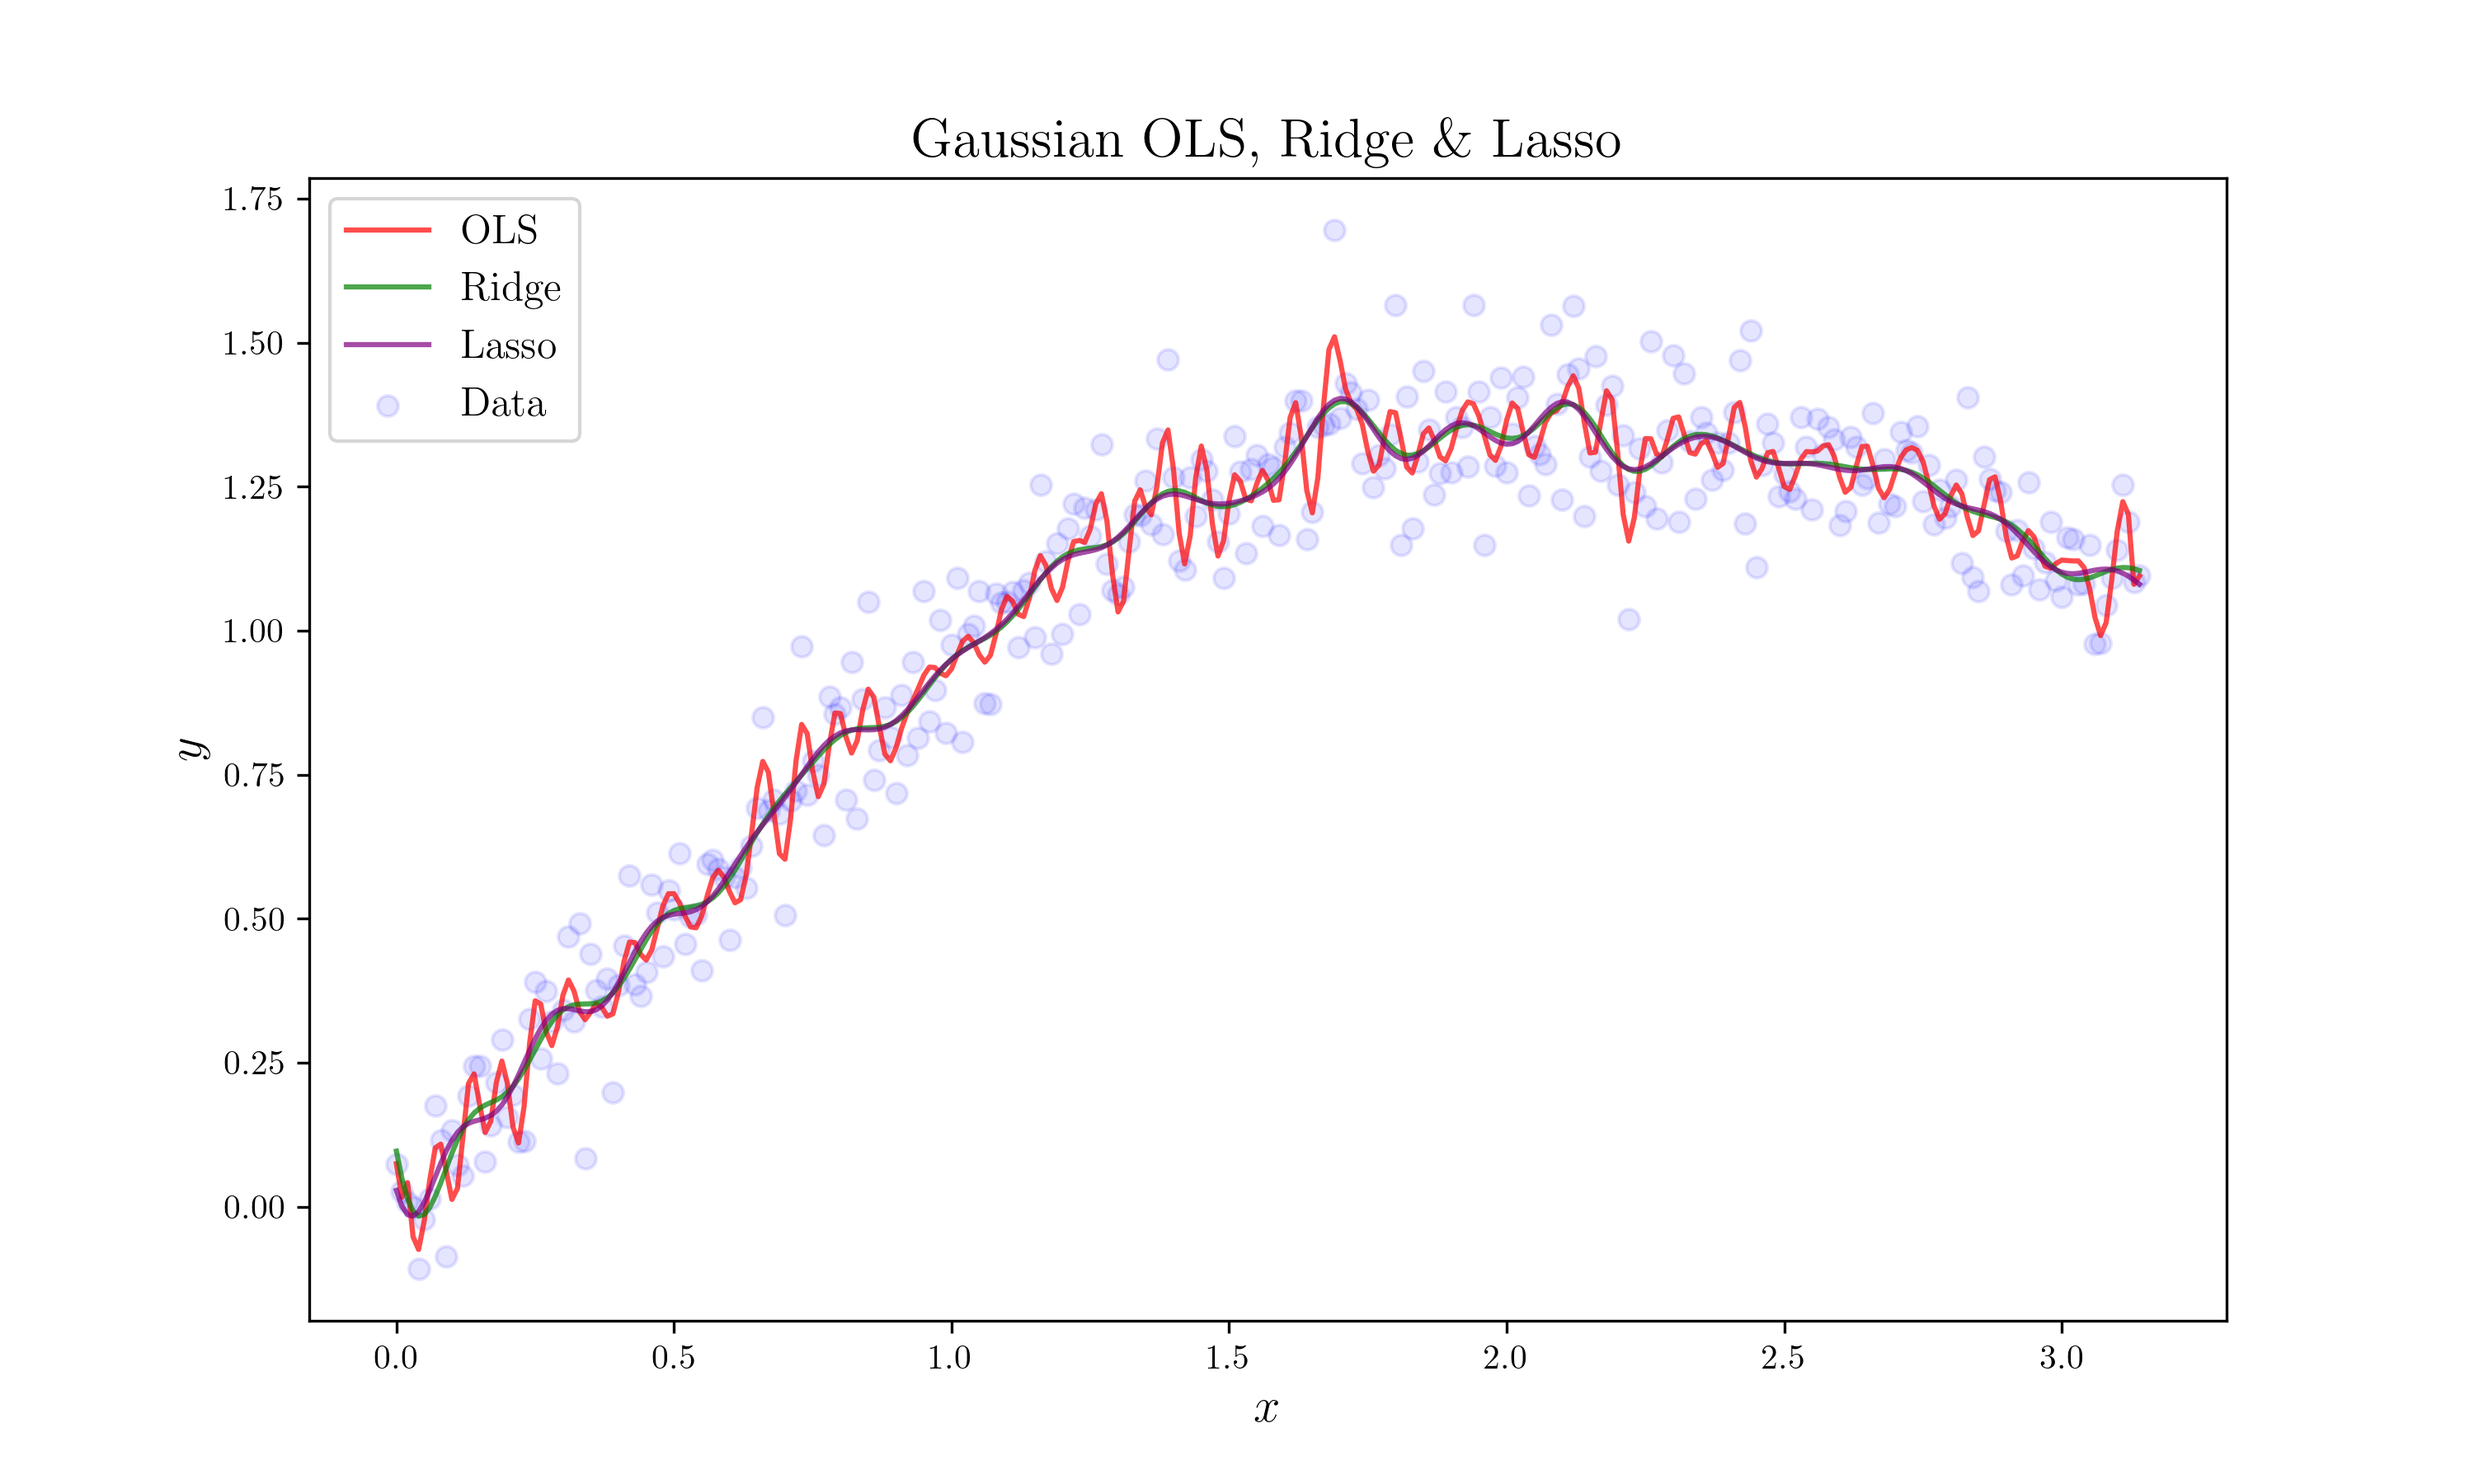
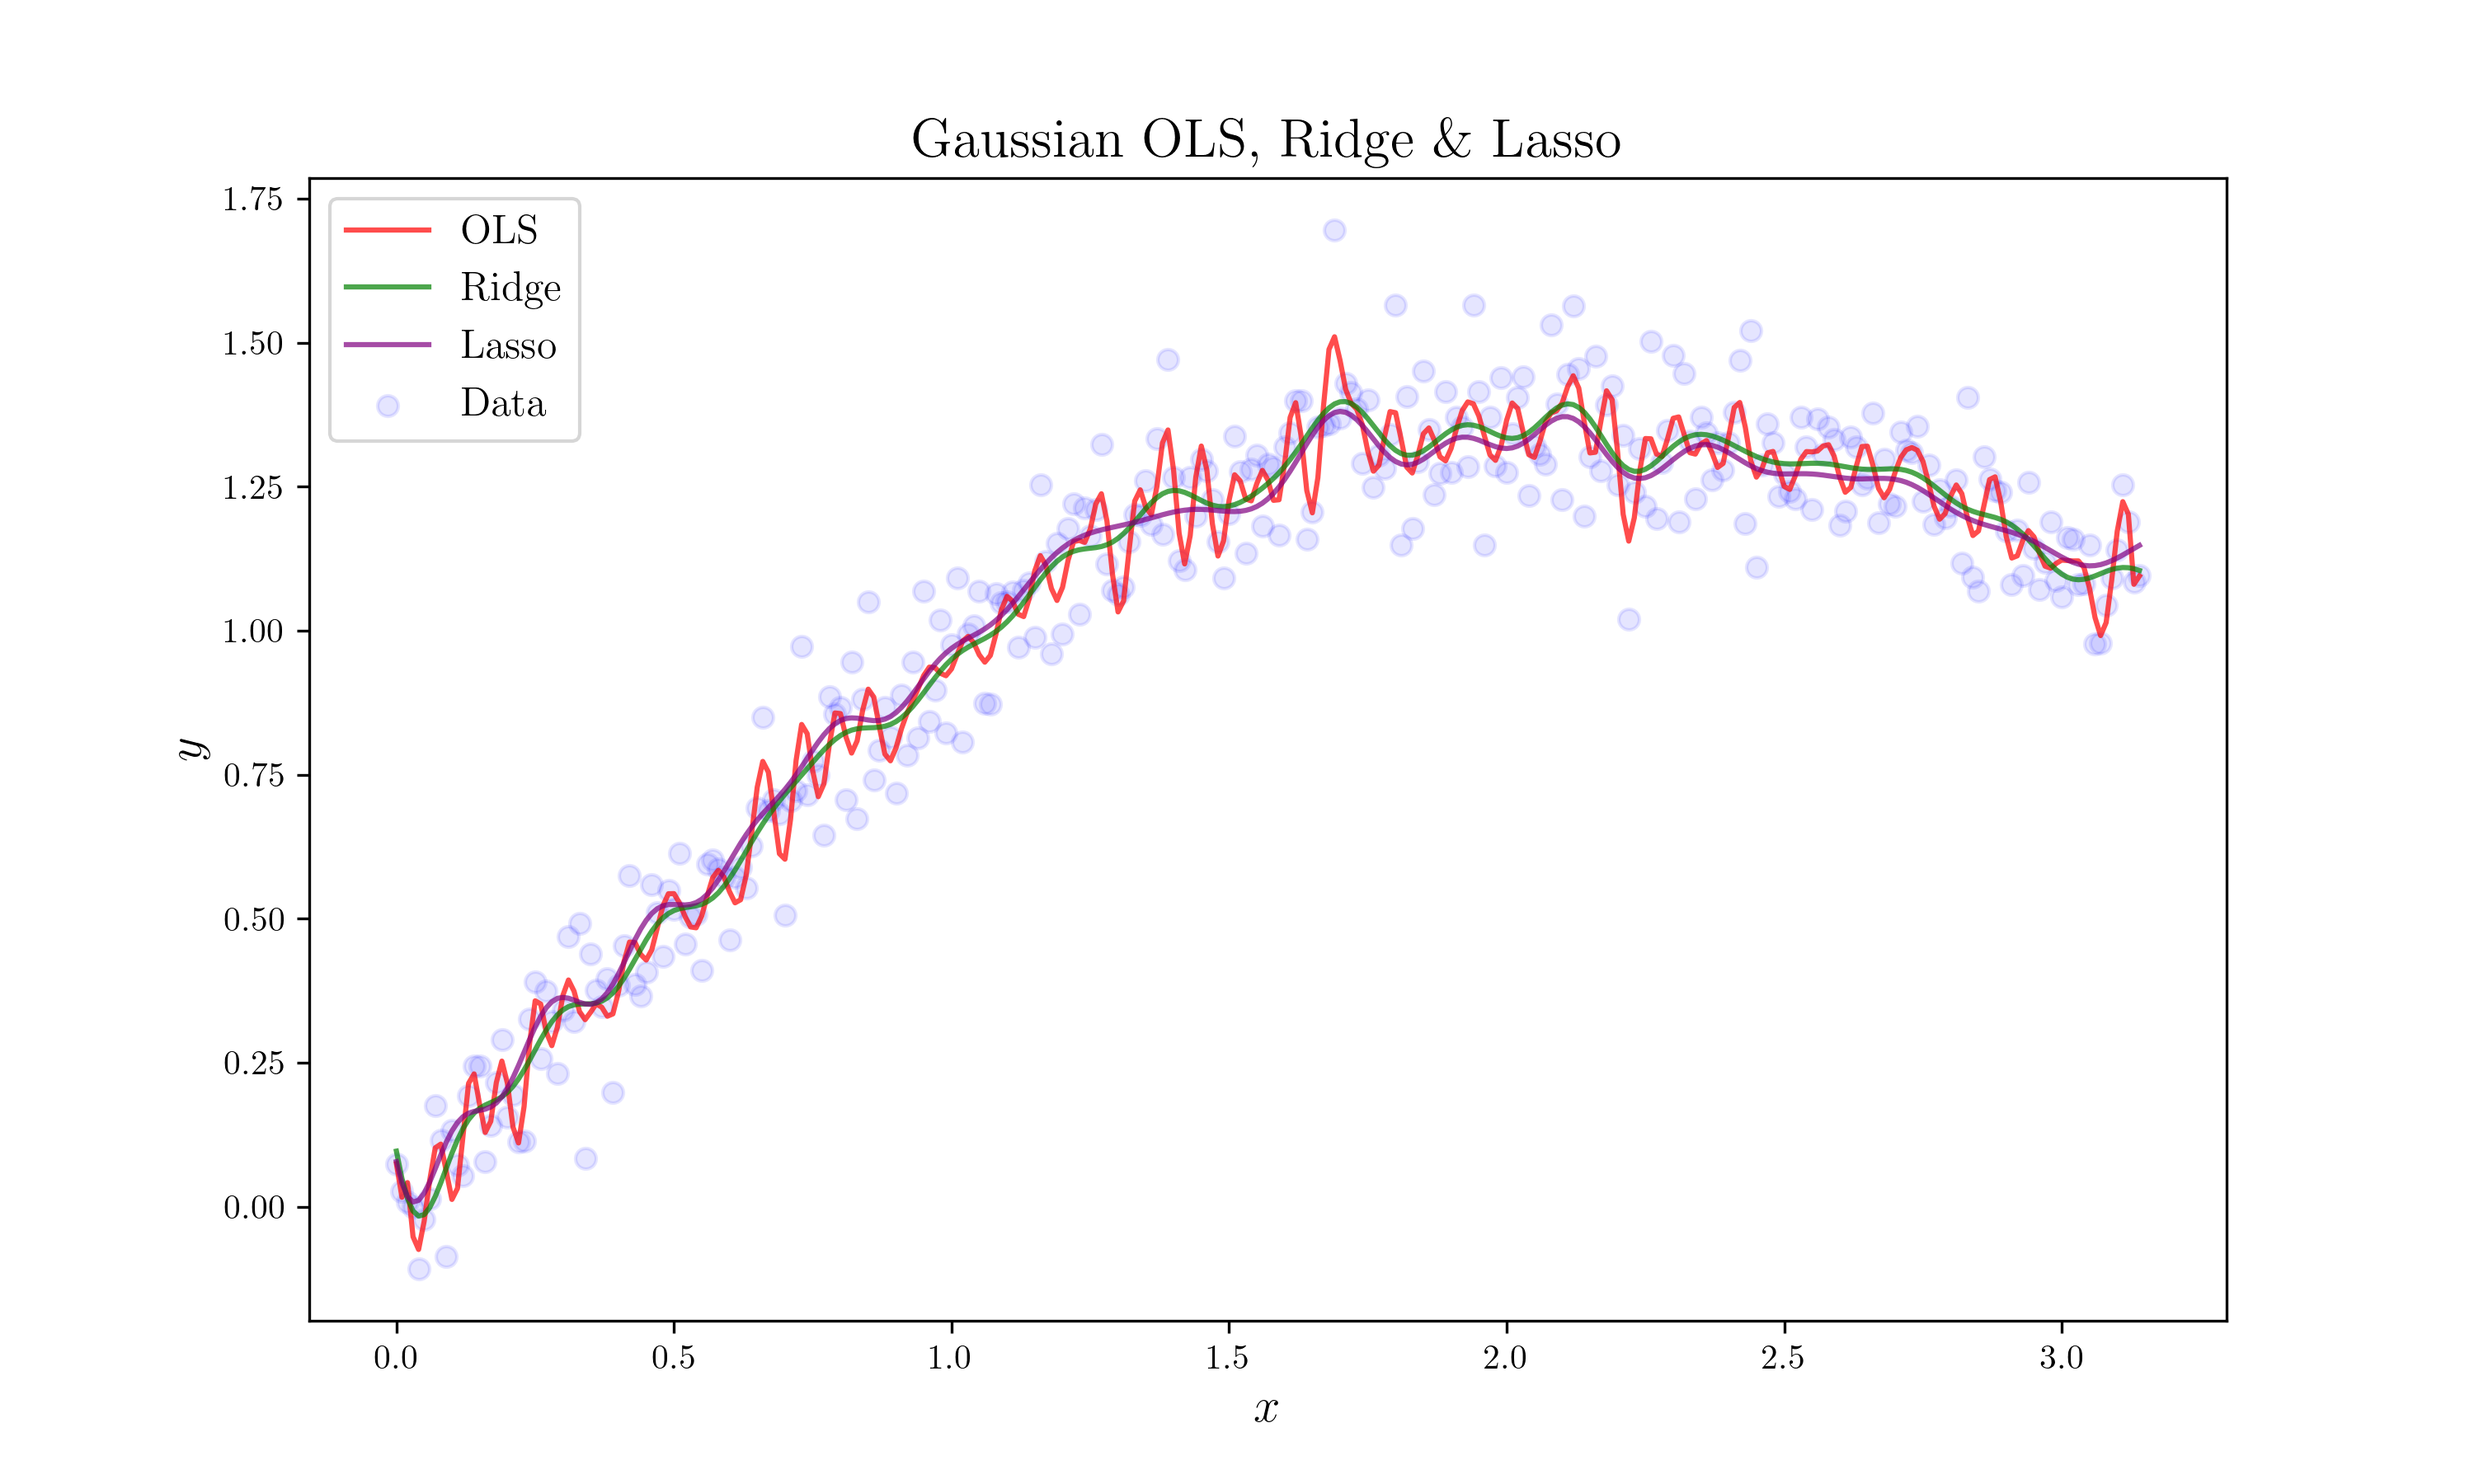
Fix LASSO

diff --git a/chap3/python/06_lasso.py b/chap3/python/06_lasso.py
@@ -9,118 +9,119 @@ import scipy.stats as ss
 def main():
     np.random.seed(42)
 
-    x = np.arange(0, np.pi, 0.1)
-    y = np.sin(x) + (x / 3)**2 + 0.1 * np.random.randn(len(x)) + 3
+    # x = np.arange(0, np.pi, 0.1)
+    # y = np.sin(x) + (x / 3)**2 + 0.1 * np.random.randn(len(x)) + 3
 
-    X = np.matrix(np.column_stack([x**2, x**3, np.sin(x)]))
+    # X = np.matrix(np.column_stack([x**2, x**3, np.sin(x)]))
+    # Y = np.matrix(y).T
+
+    # lasso = LassoReg(X, Y, 0.1)
+    # lasso.estimate()
+
+    # plt.figure(figsize=(10, 6), dpi=300)
+    # plt.scatter(x, y, label="Data")
+    # plt.plot(x, lasso.y_hat, label="Lasso")
+    # plt.show()
+
+    # Prepare Data to Plot
+    x = np.arange(1, 5, 0.1)
+    err = np.random.randn(len(x))
+    y = 2 * x + 3 + err
+
+    X = np.matrix(x).T
+    Xb = sm.add_constant(X)
     Y = np.matrix(y).T
+
+    ols = OLSEstimator(Xb, Y)
+    ols.estimate()
+    ols.test()
+
+    ridge = RidgeReg(X, Y, 10)
+    ridge.estimate()
+    ridge.test()
+
+    lasso = LassoReg(X, Y, 1)
+    lasso.estimate()
+
+    print("OLS: ")
+    ols.summary()
+
+    print()
+
+    print("RIDGE: ")
+    ridge.summary()
+
+    with plt.xkcd():
+
+       # Prepare Plot
+       plt.figure(figsize=(10,6), dpi=300)
+       plt.title(r"Simple OLS, Ridge & Lasso", fontsize=16)
+       plt.xlabel(r'x', fontsize=14)
+       plt.ylabel(r'y', fontsize=14)
+
+       # Plot with Legends
+       plt.scatter(x, y, label='Data')
+       plt.plot(x, np.asarray(ols.y_hat).ravel(), 'r', label='OLS')
+       plt.plot(x, np.asarray(ridge.true_y_hat).ravel(), 'g', label='Ridge')
+       plt.plot(x, np.asarray(lasso.y_hat).ravel(), color='purple', alpha=0.5, label='Lasso')
+
+       # Other options
+       plt.legend(fontsize=12)
+       plt.savefig("ols_ridge_lasso.png", dpi=300)
+
+    print()
+
+    # ==============================================================================
+    # Gaussian Basis
+    # ==============================================================================
+    x = np.arange(0, np.math.pi, 0.01)
+    err = np.random.randn(len(x))
+    y = np.sin(x) + (x / 3) ** 2 + 0.1 * err
+
+    X = np.matrix(np.column_stack([phi(j/100, 0.01, x) for j in range(0, 310)]))
+    Xb = sm.add_constant(X)
+    Y = np.matrix(y).T
+
+    ols = OLSEstimator(Xb, Y)
+    ols.estimate()
+    ols.test()
+
+    #ridges = [RidgeReg(X, Y, 10**(lam/2)) for lam in range(0, 10)]
+    #for ridge in ridges:
+    #    ridge.estimate()
+    ridge = RidgeReg(X, Y, 10)
+    ridge.estimate()
+    ridge.test()
 
     lasso = LassoReg(X, Y, 0.1)
     lasso.estimate()
 
-    plt.scatter(x, y)
-    plt.plot(x, lasso.y_hat)
-    plt.show()
+    ##print("OLS: ")
+    ##ols.summary()
 
-    ## Prepare Data to Plot
-    #x = np.arange(1, 5, 0.1)
-    #err = np.random.randn(len(x))
-    #y = 2 * x + 3 + err
+    ##print()
 
-    #X = np.matrix(x).T
-    #Xb = sm.add_constant(X)
-    #Y = np.matrix(y).T
+    ##print("RIDGE: ")
+    ##ridge.summary()
 
-    #ols = OLSEstimator(Xb, Y)
-    #ols.estimate()
-    #ols.test()
+    plt.rc('text', usetex=True)
+    plt.rc('font', family='serif')
+    # Prepare Plot
+    plt.figure(figsize=(10,6), dpi=300)
+    plt.title(r"Gaussian OLS, Ridge \& Lasso", fontsize=16)
+    plt.xlabel(r'$x$', fontsize=14)
+    plt.ylabel(r'$y$', fontsize=14)
 
-    #ridge = RidgeReg(X, Y, 10)
-    #ridge.estimate()
-    #ridge.test()
+    # Plot with Legends
+    plt.scatter(x, y, color="blue", alpha=0.1, label=r'Data')
+    plt.plot(x, np.asarray(ols.y_hat).ravel(), color='r', alpha=0.7, label=r'OLS')
+    plt.plot(x, np.asarray(ridge.true_y_hat).ravel(), color='g', alpha=0.7, label=r'Ridge')
+    plt.plot(x, np.asarray(lasso.y_hat).ravel(), color='purple', alpha=0.7, label=r'Lasso')
 
-    #lasso = LassoReg(X, Y, 1e-15)
-    #lasso.estimate()
+    # Other options
+    plt.legend(fontsize=12)
 
-    #print("OLS: ")
-    #ols.summary()
-
-    #print()
-
-    #print("RIDGE: ")
-    #ridge.summary()
-
-    #with plt.xkcd():
-
-    #    # Prepare Plot
-    #    plt.figure(figsize=(10,6), dpi=300)
-    #    plt.title(r"Simple OLS, Ridge & Lasso", fontsize=16)
-    #    plt.xlabel(r'x', fontsize=14)
-    #    plt.ylabel(r'y', fontsize=14)
-
-    #    # Plot with Legends
-    #    plt.scatter(x, y, label='Data')
-    #    plt.plot(x, np.asarray(ols.y_hat).ravel(), 'r', label='OLS')
-    #    plt.plot(x, np.asarray(ridge.true_y_hat).ravel(), 'g', label='Ridge')
-    #    plt.plot(x, np.asarray(lasso.y_hat).ravel(), color='purple', alpha=0.5, label='Lasso')
-
-    #    # Other options
-    #    plt.legend(fontsize=12)
-    #    plt.savefig("ols_ridge_lasso.png", dpi=300)
-
-    #print()
-
-    ## ==============================================================================
-    ## Gaussian Basis
-    ## ==============================================================================
-    #x = np.arange(0, np.math.pi, 0.01)
-    #err = np.random.randn(len(x))
-    #y = np.sin(x) + (x / 3) ** 2 + 0.1 * err
-
-    #X = np.matrix(np.column_stack([phi(j/100, 0.01, x) for j in range(0, 310)]))
-    #Xb = sm.add_constant(X)
-    #Y = np.matrix(y).T
-
-    #ols = OLSEstimator(Xb, Y)
-    #ols.estimate()
-    #ols.test()
-
-    ##ridges = [RidgeReg(X, Y, 10**(lam/2)) for lam in range(0, 10)]
-    ##for ridge in ridges:
-    ##    ridge.estimate()
-    #ridge = RidgeReg(X, Y, 10)
-    #ridge.estimate()
-    #ridge.test()
-
-    #lasso = LassoReg(X, Y, 0.01)
-    #lasso.estimate()
-
-    ###print("OLS: ")
-    ###ols.summary()
-
-    ###print()
-
-    ###print("RIDGE: ")
-    ###ridge.summary()
-
-    #plt.rc('text', usetex=True)
-    #plt.rc('font', family='serif')
-    ## Prepare Plot
-    #plt.figure(figsize=(10,6), dpi=300)
-    #plt.title(r"Gaussian OLS, Ridge \& Lasso", fontsize=16)
-    #plt.xlabel(r'$x$', fontsize=14)
-    #plt.ylabel(r'$y$', fontsize=14)
-
-    ## Plot with Legends
-    #plt.scatter(x, y, color="blue", alpha=0.1, label=r'Data')
-    #plt.plot(x, np.asarray(ols.y_hat).ravel(), color='r', alpha=0.7, label=r'OLS')
-    #plt.plot(x, np.asarray(ridge.true_y_hat).ravel(), color='g', alpha=0.7, label=r'Ridge')
-    #plt.plot(x, np.asarray(lasso.y_hat).ravel(), color='purple', alpha=0.7, label=r'Lasso')
-
-    ## Other options
-    #plt.legend(fontsize=12)
-
-    #plt.savefig("gaussian_ols_ridge_lasso.png", dpi=300)
+    plt.savefig("gaussian_ols_ridge_lasso.png", dpi=300)
 
 
 
